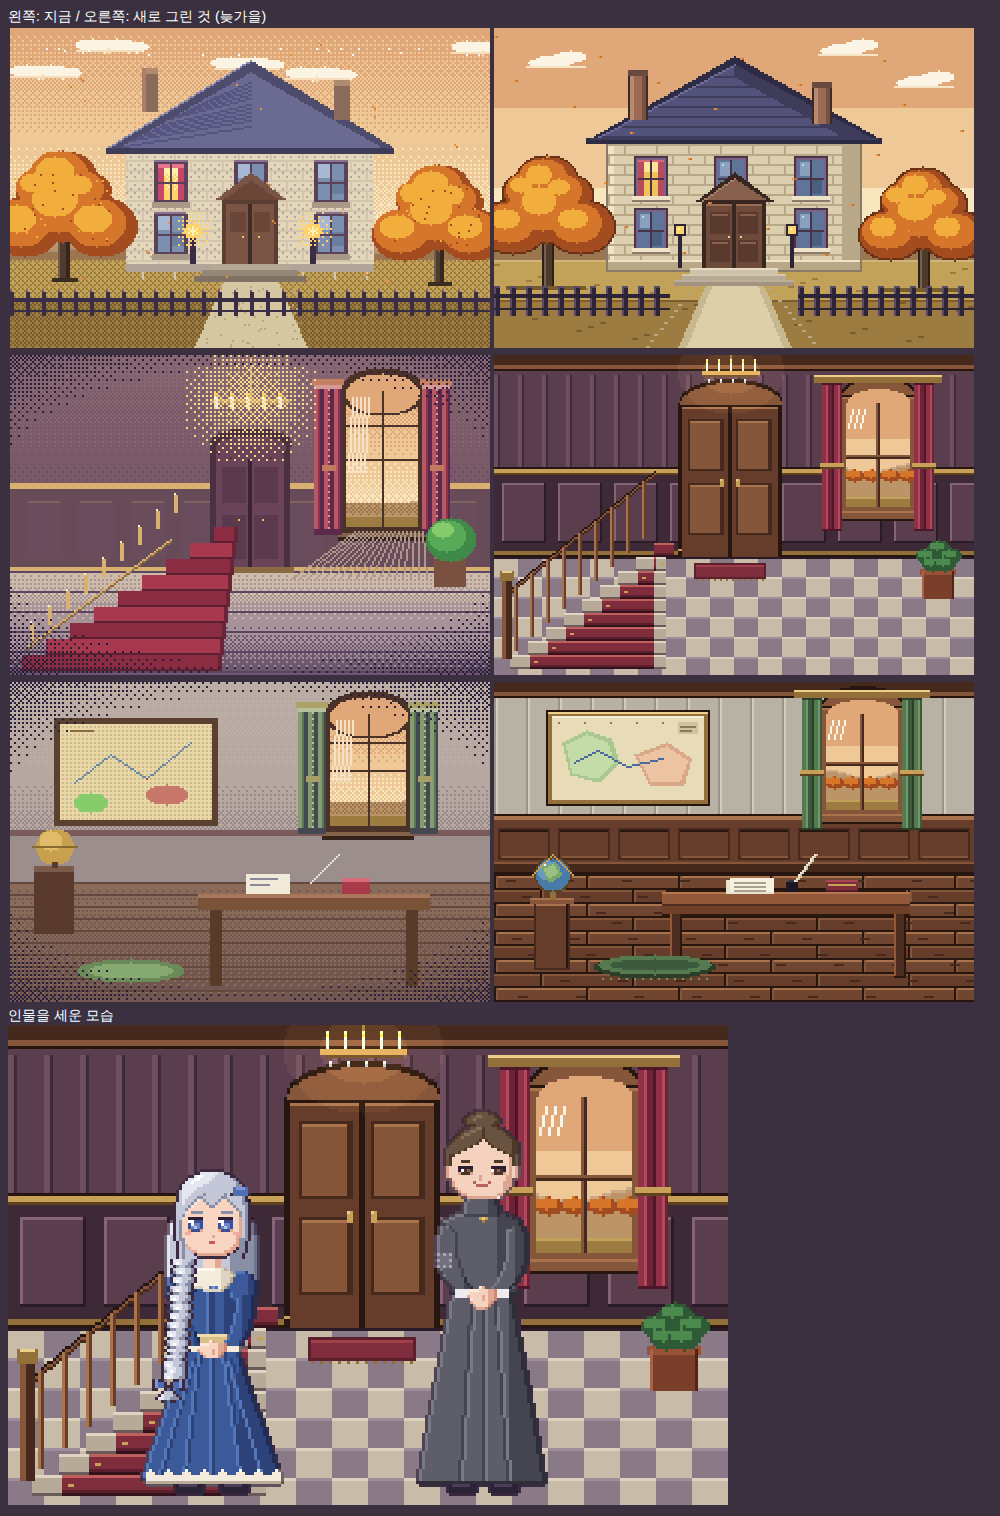
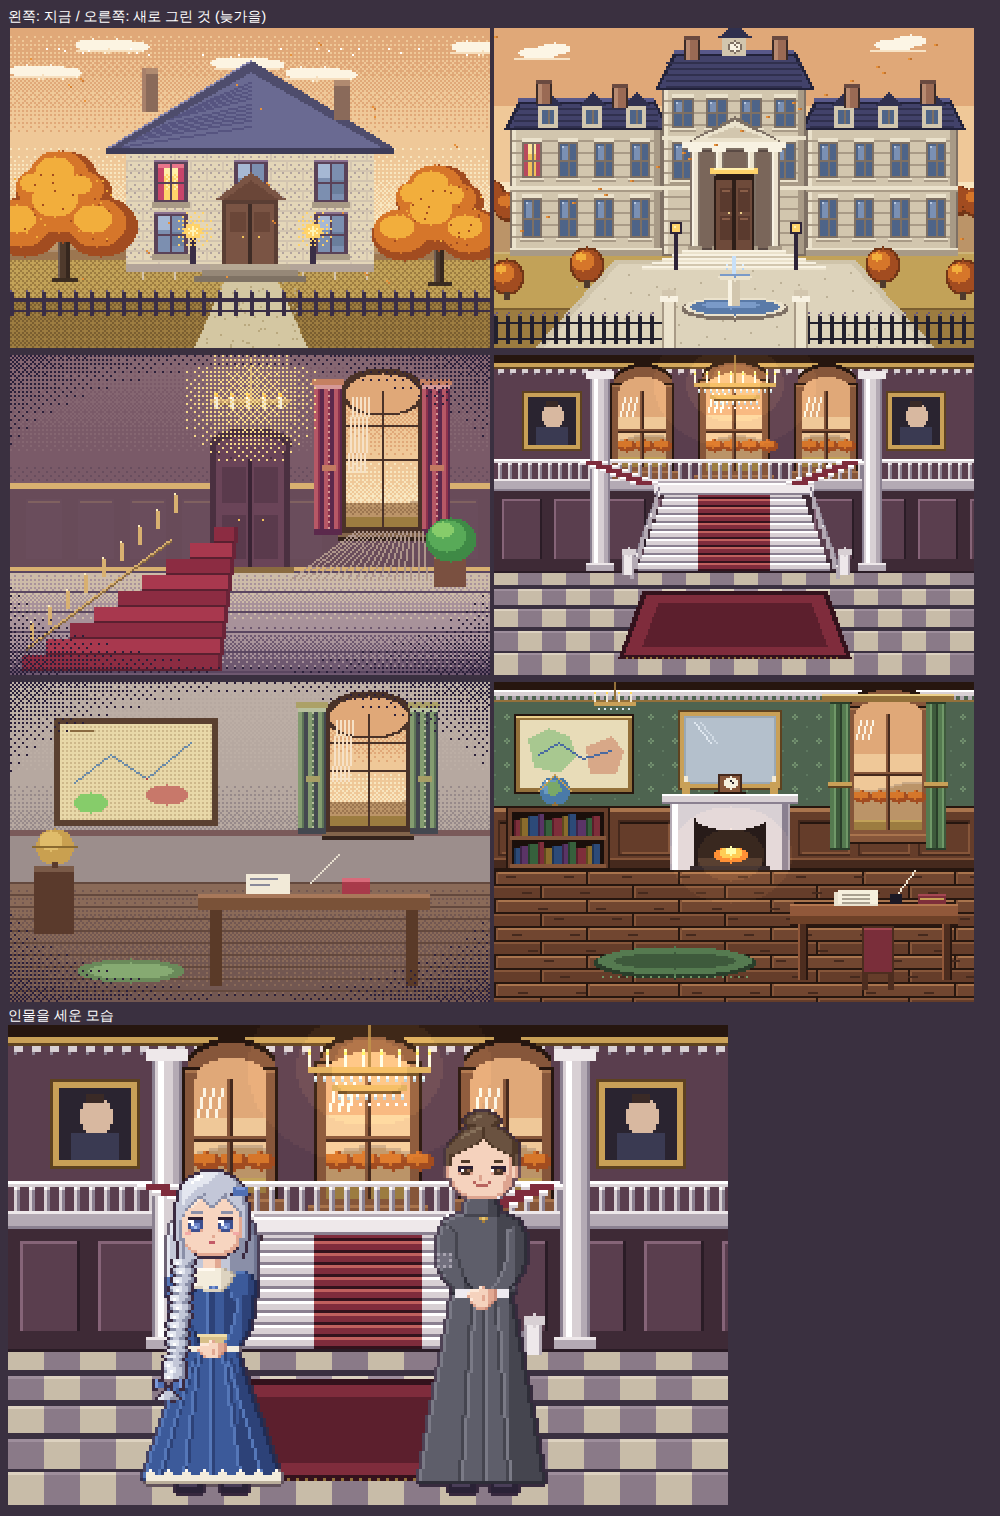
새 그림체 배경: 대저택판 외관·현관 홀·공부방 (wip)
Claude-Session: https://claude.ai/code/session_01NzQUDDCoPt1Z4eH1vzoWiG

diff --git a/wip/bg2.js b/wip/bg2.js
@@ -164,3 +164,169 @@ function exterior2(o,P){
   // 계절 입자 (낙엽·눈·꽃잎): 점무늬 대신 두 칸짜리 조각
   if(P.part){ for(let k=0;k<26;k++){ const X=(k*97)%236, Y=(k*61)%110+4; px(X,Y,P.part); px(X+1,Y,P.part===('#ffffff')?'#e8eef6':mix(P.part,'#7a3a14',.35)); } }
 }
+
+// ════ 대저택 버전 (사용자: "완전 대저택이어야 해") ════
+// 외관: 가운데 3층 본관 + 좌우 날개, 기둥 현관과 박공, 망사르 지붕과 지붕창, 대리석 계단, 분수, 철문
+function exterior3(o,P){
+  const R=(x,y,w,h,c)=>o.r(x,y,w,h,c), px=(x,y,c)=>o.p(x,y,c);
+  bands(o,0,0,240,96,[P.sky[0],P.sky[0],P.sky[1],P.sky[1],P.sky[2]]);
+  const cl=mix(P.sky[2],'#ffffff',.6), cs=mix(cl,P.sky[1],.4);
+  [[22,12],[200,8]].forEach(c=>{ o.ell(c[0],c[1],10,3,cl); o.ell(c[0]+8,c[1]-2,7,3,cl); R(c[0]-12,c[1]+3,28,1,cs); });
+  for(let X=0;X<240;X++){ const h=Math.round(84+Math.sin(X/23)*3); R(X,h,1,40,P.far[0]); px(X,h,mix(P.far[0],'#ffffff',.2)); }
+  // 뒤 나무숲 (건물 양옆으로 살짝)
+  for(let X=-4;X<250;X+=13){ const y=86+((X*7)%5); o.ell(X,y,9,8,mix(P.leaf[2],'#000000',.3)); o.ell(X-1,y-1,8,7,P.leaf[2]); o.ell(X-3,y-3,4,3,P.leaf[1]); }
+  // 땅·앞마당(자갈)
+  R(0,112,240,48,P.gr[0]); R(0,112,240,1,mix(P.gr[0],'#ffffff',.2)); R(0,140,240,20,P.gr[1]); R(0,140,240,1,P.gr[2]);
+  o.poly([[20,160],[220,160],[180,116],[60,116]],'#cfc4aa'); o.poly([[24,160],[216,160],[178,118],[62,118]],'#ddd3bb');
+  for(let k=0;k<60;k++){ const X=40+(k*37)%160, Y=120+(k*13)%40; px(X,Y,'#bcb096'); }
+  const ST=['#7e7064','#a89a86','#d2c6ae','#ebe2cc','#f8f2e2'];       // 크림색 돌
+  const RF=['#22223a','#30304e','#42426a','#58588a'];                // 슬레이트
+  const win=(x,y,w,h,lit)=>{ R(x-1,y-1,w+2,h+2,ST[0]); R(x,y,w,h,lit?'#f2c25a':'#4e6488');
+    if(lit){ R(x,y,w,Math.floor(h/3),'#fde49a'); R(x,y,2,h,'#b84a5e'); R(x+w-2,y,2,h,'#b84a5e'); } else { R(x+1,y+1,Math.floor(w/2)-1,Math.floor(h/2),'#7a90b4'); px(x+1,y+1,'#b8c8e0'); }
+    R(x+Math.floor(w/2),y,1,h,ST[0]); R(x,y+Math.floor(h/2),w,1,ST[0]); R(x-2,y+h+1,w+4,2,ST[3]); R(x-2,y+h+2,w+4,1,ST[1]); R(x-1,y-3,w+2,2,ST[3]); };
+  // 날개 (왼쪽·오른쪽): 2층 + 지붕창
+  [[8,76],[156,76]].forEach((wg,wi)=>{ const x=wg[0], w=wg[1];
+    R(x,50,w,64,ST[0]); R(x+1,51,w-2,62,ST[2]); R(x+1,51,2,62,ST[3]); R(x+w-4,51,3,62,ST[1]);
+    for(let Y=56;Y<112;Y+=6) R(x+1,Y,w-2,1,ST[1]);
+    R(x,79,w,2,ST[3]); R(x,81,w,1,ST[1]);          // 층 띠
+    R(x,110,w,4,ST[1]); R(x,110,w,1,ST[3]);
+    // 망사르 지붕
+    o.poly([[x-3,51],[x+w+3,51],[x+w-4,36],[x+4,36]],RF[0]); o.poly([[x-1,50],[x+w+1,50],[x+w-5,38],[x+5,38]],RF[2]);
+    for(let Y=40;Y<50;Y+=3) R(x+2,Y,w-4,1,RF[1]); R(x+4,35,w-8,2,RF[3]);
+    for(let k=0;k<3;k++){ const dx=x+14+k*22; R(dx,38,10,12,ST[2]); o.poly([[dx-2,39],[dx+12,39],[dx+5,32]],RF[1]); R(dx+2,41,6,7,'#4e6488'); R(dx+5,41,1,7,ST[0]); }
+    // 창: 2층(이층) y58, 1층 y86
+    for(let k=0;k<4;k++){ const wx=x+7+k*18; win(wx,58,8,16, wi===0&&k===0); win(wx,86,8,18,false); }
+  });
+  // 본관 (가운데, 3층)
+  const cx=84, cw=72;
+  R(cx,30,cw,84,ST[0]); R(cx+1,31,cw-2,82,ST[2]); R(cx+1,31,2,82,ST[3]); R(cx+cw-4,31,3,82,ST[1]);
+  for(let Y=36;Y<112;Y+=6) R(cx+1,Y,cw-2,1,ST[1]);
+  R(cx,54,cw,2,ST[3]); R(cx,79,cw,2,ST[3]);
+  o.poly([[cx-4,31],[cx+cw+4,31],[cx+cw-6,12],[cx+6,12]],RF[0]); o.poly([[cx-2,30],[cx+cw+2,30],[cx+cw-7,14],[cx+7,14]],RF[2]);
+  for(let Y=17;Y<30;Y+=3) R(cx+2,Y,cw-4,1,RF[1]); R(cx+6,11,cw-12,2,RF[3]);
+  // 지붕 위 시계 박공
+  R(114,4,12,10,ST[2]); o.poly([[111,5],[129,5],[120,-2]],RF[1]); o.ell(120,9,3,3,ST[0]); o.ell(120,9,2,2,'#f8f2e2'); px(120,8,ST[0]); px(121,9,ST[0]);
+  // 굴뚝
+  [[22,26],[60,28],[176,28],[214,26],[96,4],[140,4]].forEach(c=>{ R(c[0]-1,c[1],8,12,'#3a2a26'); R(c[0],c[1]+1,6,11,'#9a6a54'); R(c[0],c[1]+1,2,11,'#b88a70'); R(c[0]-1,c[1],8,2,'#6a4a40'); });
+  // 본관 창: 3층 y36, 2층 y58
+  for(let k=0;k<4;k++){ const wx=cx+6+k*17; if(k===1||k===2){ win(wx,36,9,13,false); } else { win(wx,36,9,13,false); win(wx,58,9,17,false); } }
+  // 기둥 현관 + 박공
+  const PX0=98, PW=44;
+  o.poly([[PX0-4,58],[PX0+PW+4,58],[120,44]],ST[0]); o.poly([[PX0-1,57],[PX0+PW+1,57],[120,46]],ST[3]); o.poly([[PX0+6,55],[PX0+PW-6,55],[120,49]],ST[2]);
+  R(PX0-4,57,PW+8,3,ST[4]); R(PX0-4,60,PW+8,1,ST[0]);
+  R(PX0,61,PW,50,'#5a4a44'); R(PX0+1,62,PW-2,48,'#7a665a');
+  [PX0,PX0+12,PX0+28,PX0+40].forEach(x=>{ R(x,61,5,50,ST[0]); R(x+1,61,3,50,ST[3]); R(x+1,61,1,50,ST[4]); R(x-1,60,7,2,ST[4]); R(x-1,109,7,2,ST[1]); });
+  // 정문
+  R(110,74,20,37,'#2e1e18'); R(111,76,18,35,'#6e4a3a'); for(let k=0;k<10;k++){ const d=Math.round(Math.sqrt(1-(k/10)**2)*5); R(120-k,75-d,1,d,'#2e1e18'); R(120+k,75-d,1,d,'#2e1e18'); }
+  R(119,76,2,35,'#2e1e18'); [[113,80],[122,80],[113,94],[122,94]].forEach(p=>{ R(p[0],p[1],6,12,'#5a3a2e'); R(p[0]+1,p[1]+1,4,1,'#8a5e48'); }); px(117,92,GD2[3]); px(123,92,GD2[3]);
+  R(108,70,24,3,'#ffd36a'); R(110,70,20,1,'#fff0b0');   // 문 위 반원창 빛
+  // 대리석 계단 (넓게)
+  for(let k=0;k<5;k++){ const w=52+k*10, Y=111+k*2; R(120-w/2,Y,w,2,k%2?ST[2]:ST[3]); R(120-w/2,Y,w,1,ST[4]); }
+  // 등 기둥
+  [[90,121],[150,121]].forEach(p=>{ R(p[0],p[1]-18,2,18,'#2e2438'); R(p[0]-2,p[1]-24,6,6,'#2e2438'); R(p[0]-1,p[1]-23,4,4,'#ffd36a'); px(p[0],p[1]-22,'#fff4b8'); });
+  // 분수 (앞마당 가운데)
+  o.ell(120,140,26,6,ST[0]); o.ell(120,139,25,5,ST[3]); o.ell(120,139,22,4,'#5a7aa8'); o.ell(118,138,14,2,'#7a9ac8'); R(117,124,6,15,ST[2]); R(117,124,2,15,ST[4]); o.ell(120,124,8,2,ST[3]); o.ell(120,123,7,1,'#7a9ac8');
+  [[116,118],[124,118],[120,116]].forEach(d=>{ px(d[0],d[1],'#d8ecff'); px(d[0],d[1]+2,'#b8d4f0'); }); R(119,114,2,9,'#c8e0f8');
+  // 철문·울타리 (맨 앞)
+  for(let X=0;X<240;X+=6){ if(X>88&&X<150) continue; R(X,144,2,14,'#22202e'); px(X,143,'#6a5a7a'); px(X+1,142,'#6a5a7a'); }
+  R(0,147,90,1,'#22202e'); R(150,147,90,1,'#22202e'); R(0,155,90,1,'#22202e'); R(150,155,90,1,'#22202e');
+  [[84,136],[150,136]].forEach(p=>{ R(p[0],p[1],7,24,ST[1]); R(p[0]+1,p[1],5,24,ST[3]); R(p[0]-1,p[1]-2,9,3,ST[4]); o.ell(p[0]+3,p[1]-4,3,2,ST[2]); });
+  // 정원수 (양 끝, 계절)
+  const shrub=(x,y)=>{ o.ell(x,y,8,9,mix(P.leaf[2],'#000000',.3)); o.ell(x,y,7,8,P.leaf[2]); o.ell(x-2,y-2,5,5,P.leaf[1]); o.ell(x-3,y-4,2,2,P.leaf[0]); R(x-1,y+8,3,4,P.trunk); };
+  [[6,124],[234,124],[46,118],[194,118]].forEach(p=>shrub(p[0],p[1]));
+  if(P.part){ for(let k=0;k<22;k++){ const X=(k*97)%236, Y=(k*61)%104+4; px(X,Y,P.part); px(X+1,Y,P.part==='#ffffff'?'#e8eef6':mix(P.part,'#7a3a14',.35)); } }
+}
+
+// 현관 홀: 2층 높이, 가운데서 갈라지는 대리석 계단, 위층 회랑과 높은 아치 창, 큰 크리스털 샹들리에, 기둥, 초상화
+function hall3(o,P){
+  const R=(x,y,w,h,c)=>o.r(x,y,w,h,c), px=(x,y,c)=>o.p(x,y,c);
+  const WL=['#3e2a36','#5a3e4e','#6e4e60','#866478'];
+  const MB=['#8a8090','#b4aab4','#d8d0d4','#eee8ea','#ffffff'];  // 대리석
+  const RG=['#33121c','#5c1f2d','#7f2c3c','#a1404b','#c0605e'];
+  R(0,0,240,108,WL[1]);
+  // 천장 몰딩
+  R(0,0,240,4,WD2[0]); R(0,4,240,2,GD2[2]); R(0,6,240,1,GD2[0]); for(let X=2;X<240;X+=6){ R(X,7,3,2,MB[2]); px(X,9,MB[0]); }
+  // 뒤 벽 위층: 높은 아치 창 3개
+  [[60,12],[106,10],[152,12]].forEach((w,i)=>{ const ww=i===1?28:24, wh=i===1?42:38; frameWin(o,w[0]+(i===1?0:2),w[1]+6,ww,wh,P,{arch:true}); });
+  // 위층 회랑 (난간)
+  R(0,62,240,6,MB[1]); R(0,62,240,1,MB[3]); R(0,67,240,1,MB[0]);
+  R(0,52,240,2,MB[2]); R(0,52,240,1,MB[4]); for(let X=2;X<240;X+=5){ R(X,54,2,8,MB[2]); px(X,54,MB[4]); R(X+1,55,1,7,MB[0]); }
+  // 아래층 뒤 벽 (판넬) + 가운데 아치 통로
+  R(0,68,240,40,WL[0]);
+  for(let X=4;X<240;X+=26){ if(X>86&&X<150) continue; R(X,72,20,30,WL[1]); R(X,72,20,1,WL[3]); R(X,72,1,30,WL[3]); R(X+19,72,1,30,'#2a1c26'); }
+  // 초상화 (위층 양쪽 벽)
+  [[14,18],[196,18]].forEach(p=>{ R(p[0],p[1],30,30,GD2[0]); R(p[0]+1,p[1]+1,28,28,GD2[2]); R(p[0]+3,p[1]+3,24,24,'#2a2430'); o.ell(p[0]+15,p[1]+12,5,6,'#d8b8a0'); R(p[0]+7,p[1]+18,16,9,'#3a3a52'); R(p[0]+12,p[1]+5,6,3,'#3a2a26'); });
+  // 기둥 (양 옆)
+  [[48,8],[184,8]].forEach(c=>{ const x=c[0]; R(x,8,10,100,MB[0]); R(x+1,8,8,100,MB[2]); R(x+2,8,2,100,MB[4]); R(x+7,8,2,100,MB[1]); R(x-2,8,14,4,MB[3]); R(x-2,104,14,4,MB[1]); R(x-2,104,14,1,MB[3]); });
+  // 바닥: 대리석 격자 (원근감 있게 위는 좁게)
+  for(let j=0;j<6;j++){ const Y=108+j*9+Math.floor(j*j/3), h=7+j; for(let X=-(j%2)*12;X<240;X+=24){ R(X,Y,12,h,'#c8bca8'); R(X+12,Y,12,h,'#8a7a88'); R(X,Y,12,1,'#ddd2c0'); R(X+12,Y,12,1,'#9e8e9c'); } }
+  R(0,108,240,1,'#2a1c26');
+  // 가운데 계단: 바닥(108)에서 계단참(70)까지 넓게, 붉은 양탄자
+  for(let k=0;k<10;k++){ const Y=104-k*4, w=96-k*3; R(120-w/2,Y,w,4,MB[2]); R(120-w/2,Y,w,1,MB[4]); R(120-w/2,Y+3,w,1,MB[0]); R(120-18,Y,36,4,RG[2]); R(120-18,Y,36,1,RG[4]); R(120-18,Y+3,36,1,RG[0]); }
+  R(80,64,80,6,MB[3]); R(80,64,80,1,MB[4]); R(80,69,80,1,MB[0]);   // 계단참
+  // 계단참에서 좌우 위층으로 갈라지는 계단
+  for(let k=0;k<6;k++){ const Y=63-k*2; R(80-k*5-12,Y,14,2,MB[2]); R(80-k*5-12,Y,14,1,MB[4]); R(146+k*5,Y,14,2,MB[2]); R(146+k*5,Y,14,1,MB[4]); R(80-k*5-9,Y,8,2,RG[2]); R(149+k*5,Y,8,2,RG[2]); }
+  // 계단 난간 (가운데 계단 양옆)
+  o.line(68,106,82,66,MB[0]); o.line(69,106,83,66,MB[3]); o.line(172,106,158,66,MB[0]); o.line(171,106,157,66,MB[3]);
+  for(let k=0;k<8;k++){ const t=k/8; const xl=Math.round(68+14*t), xr=Math.round(172-14*t), y=Math.round(106-40*t); R(xl,y,2,6,MB[1]); R(xr-1,y,2,6,MB[1]); }
+  [[64,100],[172,100]].forEach(p=>{ R(p[0],p[1],6,10,MB[1]); R(p[0]+1,p[1],4,10,MB[3]); o.ell(p[0]+3,p[1]-2,3,2,MB[2]); });
+  // 큰 크리스털 샹들리에
+  o.line(120,0,120,14,GD2[1]); R(100,14,41,2,GD2[2]); R(104,16,33,1,GD2[0]); R(108,20,25,2,GD2[2]); R(110,22,21,1,GD2[0]);
+  [100,106,112,118,124,130,136,140].forEach(x=>{ R(x,10,1,4,'#f2ead8'); px(x,9,'#ffd75a'); px(x,8,'#fff0a8'); });
+  for(let x=102;x<140;x+=3){ px(x,17,'#d8e8f0'); px(x,18,'#a8c0d0'); } for(let x=110;x<132;x+=3){ px(x,23,'#d8e8f0'); px(x,24,'#a8c0d0'); px(x+1,26,'#e8f4ff'); }
+  warmGlow(o,120,14,[[40,.04],[24,.06],[12,.08]]);
+  // 앞쪽 큰 양탄자
+  o.poly([[62,152],[178,152],[166,118],[74,118]],RG[0]); o.poly([[65,150],[175,150],[164,120],[76,120]],RG[2]); o.poly([[74,146],[166,146],[158,124],[82,124]],RG[1]);
+  for(let X=66;X<174;X+=3) px(X,151,GD2[1]);
+}
+
+// 공부방(대저택판): 높은 천장 몰딩, 다마스크 벽지, 대리석 벽난로와 거울·탁상시계, 높은 창, 책장, 지도, 지구본, 책상과 의자, 작은 샹들리에
+function school3(o,P){
+  const R=(x,y,w,h,c)=>o.r(x,y,w,h,c), px=(x,y,c)=>o.p(x,y,c);
+  const WP=['#3a4a3a','#4e6450','#5e7860','#72906e'];      // 짙은 세이지 벽지
+  const MB=['#8a8090','#b4aab4','#d8d0d4','#eee8ea','#ffffff'];
+  const GR=['#2a3e2a','#3e5a3c','#557a50','#709868'];
+  R(0,0,240,94,WP[1]);
+  for(let X=0;X<240;X+=12) for(let Y=16;Y<60;Y+=12){ px(X+6,Y,WP[3]); px(X+5,Y+1,WP[3]); px(X+7,Y+1,WP[3]); px(X+6,Y+2,WP[3]); px(X+6,Y+1,WP[2]); px(X,Y+6,WP[2]); }
+  R(0,0,240,4,WD2[0]); R(0,4,240,3,MB[2]); R(0,4,240,1,MB[4]); for(let X=1;X<240;X+=4){ R(X,7,2,2,MB[1]); } R(0,9,240,1,GD2[1]);
+  R(0,62,240,1,WD2[0]); R(0,63,240,2,WD2[4]); R(0,65,240,1,WD2[2]); R(0,66,240,24,WD2[2]);
+  for(let X=2;X<240;X+=30){ R(X,69,26,18,WD2[1]); R(X+1,70,24,16,WD2[2]); R(X+1,70,24,1,WD2[0]); R(X+2,85,23,1,WD2[3]); R(X+25,71,1,15,WD2[3]); }
+  R(0,88,240,1,WD2[3]); R(0,89,240,4,WD2[1]); R(0,93,240,1,WD2[0]);
+  plankFloor(o,94,WD2);
+  // 높은 창 + 녹색 커튼 (오른쪽)
+  frameWin(o,180,16,34,58,P,{arch:true});
+  curtainPair(o,168,10,10,74,GR,true); curtainPair(o,216,10,10,74,GR,true); R(164,6,66,4,GD2[1]); R(164,6,66,1,GD2[3]);
+  // 지도 액자 (왼쪽 위)
+  R(10,16,60,40,WD2[0]); R(11,17,58,38,GD2[1]); R(11,17,58,1,GD2[3]); R(13,19,54,34,'#e8dcb8');
+  o.poly([[17,28],[27,23],[37,27],[40,37],[32,45],[20,42]],'#a8c890'); o.poly([[46,32],[58,27],[64,34],[60,46],[48,46]],'#d8a888');
+  o.line(22,36,32,30,'#4a6aa0'); o.line(32,30,44,38,'#4a6aa0'); o.line(44,38,58,34,'#4a6aa0');
+  // 대리석 벽난로 + 거울 + 탁상시계 (가운데)
+  R(92,14,52,40,GD2[0]); R(93,15,50,38,GD2[2]); R(95,17,46,34,'#9aa8b4'); R(96,18,44,32,'#b4c0cc'); o.line(100,20,108,30,'#e0e8f0'); o.line(103,20,111,30,'#d0dae4');
+  R(84,56,68,5,MB[2]); R(84,56,68,1,MB[4]); R(84,60,68,1,MB[0]);
+  R(88,61,60,33,MB[1]); R(89,61,58,33,MB[2]); R(89,61,3,33,MB[4]); R(144,61,3,33,MB[0]);
+  R(100,68,36,26,'#1a1214'); for(let k=0;k<18;k++){ const d=Math.round(Math.sqrt(1-(k/18)**2)*6); R(118-k,68,1,d,MB[2]); R(118+k,68,1,d,MB[2]); }
+  R(102,88,32,4,'#3a2a26'); o.ell(118,86,8,4,'#e07a2a'); o.ell(118,85,5,3,'#f6b84a'); o.ell(118,84,2,2,'#ffe8a0');
+  R(98,92,40,2,'#2a2228');
+  R(112,46,12,10,WD2[1]); R(113,47,10,8,WD2[3]); o.ell(118,50,3,3,'#f6f0de'); px(118,49,'#2a2228'); px(119,50,'#2a2228'); R(110,55,16,1,WD2[0]);   // 탁상시계
+  R(94,50,4,6,GD2[2]); R(95,47,2,3,'#f2ead8'); R(138,50,4,6,GD2[2]); R(139,47,2,3,'#f2ead8');   // 촛대
+  // 책장 (왼쪽 아래)
+  R(6,62,52,32,WD2[0]); R(7,63,50,30,WD2[2]);
+  const BK=[['#5a1e2a','#7e2e3a'],['#1e3354','#2c4a78'],['#24402a','#36603c'],['#5e4a1e','#8a6c2c'],['#3e2448','#5a3466']];
+  for(let sh=0;sh<2;sh++){ const top=65+sh*14; R(9,top,46,12,'#1a0f0b'); for(let X=10,k=0;X<53;k++){ const w=3+((k*7)%3), h=8+((k*5)%4), c=BK[(k*3+sh)%5]; R(X,top+12-h,w,h,c[1]); R(X,top+12-h,1,h,c[0]); X+=w; } R(8,top+12,48,2,WD2[3]); }
+  // 지구본
+  o.ell(30,54,7,7,'#4a7aa8'); o.ell(28,52,4,4,'#6a9ac0'); o.poly([[26,50],[31,49],[33,54],[28,57]],'#7aa868'); px(26,49,'#ffffff'); o.line(22,54,30,46,GD2[2]); o.line(30,46,38,54,GD2[2]); R(29,61,3,1,GD2[1]); R(30,60,1,2,GD2[1]);
+  // 책상 + 의자 (앞쪽 가운데 오른쪽)
+  const DT=['#2a1710','#4d2d1f','#6e4128','#91583a','#b4774f'];
+  R(150,110,80,1,DT[0]); R(148,111,84,6,DT[3]); R(148,111,84,1,DT[4]); R(148,117,84,4,DT[2]); R(148,121,84,1,DT[0]);
+  [[152,121],[224,121]].forEach(l=>{ R(l[0],l[1],5,28,DT[1]); R(l[0],l[1],1,28,DT[3]); R(l[0]+4,l[1],1,28,DT[0]); });
+  R(170,105,22,7,'#e9e2cf'); R(172,104,20,7,'#f6f0de'); for(let k=0;k<3;k++) R(174,106+k*2,14,1,'#a8a090');
+  R(198,106,6,5,'#1b1824'); o.line(202,105,210,94,'#efe7d4');
+  R(212,106,14,5,'#7e2e3a'); R(212,106,14,1,'#a54852'); R(213,108,12,1,GD2[2]);
+  // 의자 등받이 (책상 앞)
+  R(184,122,16,24,DT[1]); R(185,123,14,22,'#7a2e3a'); R(185,123,14,1,'#a54852'); R(184,146,3,8,DT[1]); R(197,146,3,8,DT[1]);
+  // 작은 샹들리에
+  o.line(60,0,60,10,GD2[1]); R(50,10,21,2,GD2[2]); [50,56,62,68].forEach(x=>{ R(x,6,1,4,'#f2ead8'); px(x,5,'#ffd75a'); }); for(let x=52;x<70;x+=3) px(x,13,'#d8e8f0');
+  // 녹색 깔개
+  o.ell(90,140,40,8,GR[0]); o.ell(90,139,38,7,GR[2]); o.ell(90,139,30,4,GR[1]); for(let X=54;X<128;X+=4) px(X,147,GR[3]);
+  warmGlow(o,118,86,[[30,.05],[16,.07]]);
+}

diff --git a/wip/bg_view.js b/wip/bg_view.js
@@ -6,7 +6,7 @@ const fs=require('fs'); const SP=__dirname;
   await p.setViewport({width:1000,height:700});
   await p.goto('file://'+require('path').resolve(__dirname,'../dist/game.html'));
   const places=(process.argv[3]||'exterior,hall,schoolroom').split(',');
-  const NEW={exterior:'exterior2',hall:'hall2',schoolroom:'school2',study:'study2',bedroom:'bedroom2',dining:'dining2',kitchen:'kitchen2',orchard:'orchard2',carriage:'carriage2',corridor:'corridor2',office:'office2'};
+  const NEW={exterior:'exterior3',hall:'hall3',schoolroom:'school3',study:'study2',bedroom:'bedroom2',dining:'dining2',kitchen:'kitchen2',orchard:'orchard2',carriage:'carriage2',corridor:'corridor2',office:'office2'};
   const season=process.argv[4]||'늦가을';
   const old=await p.evaluate((pl,s)=>pl.map(k=>{ try{ return bgCanvas(k,s).toDataURL(); }catch(e){ return ''; } }),places,season);
   for(const f of ['cel.js','study2.js','ade2.js','more2.js','more3.js','bg2.js']) await p.addScriptTag({content:fs.readFileSync(SP+'/'+f,'utf8')});

diff --git a/wip/README.md b/wip/README.md
@@ -7,7 +7,7 @@
 - `ade2.js` — 새 아델라인 `adeSprite(expr)` (얼굴은 점 지도 `ADE_HEAD`, 땋은 머리 점 지도), `outlinePass()`
 - `more2.js` — 새 탠지(굵은 컬 단발) `tangieSprite`, 남자 얼굴 지도 + 몸 `maleSprite('edric'|'marot')`
 - `more3.js` — 홀트·마르타(어른 여자 얼굴 지도 `femSprite`), 소년들(아이 얼굴 지도 `boySprite(id,expr)`: adrian·kylen·julian·lionel·sebastian·hadel), 소녀들(`girlSprite(id,expr)`: rosalie·serena), 어른 남자 추가(`adultMale(id,expr)`: gregor·count). 캡처 `node wip/batch1_view.js 파일.png`
-- `bg2.js` — 새 배경 `exterior2`·`hall2`·`school2` (공통 재료 `frameWin`·`curtainPair`·`plankFloor`). 캡처 `node wip/bg_view.js 파일.png exterior,hall,schoolroom 늦가을`
+- `bg2.js` — 새 배경. 대저택판 `exterior3`·`hall3`·`school3`(사용자: "완전 대저택") — 처음 그린 `exterior2`·`hall2`·`school2`는 작아서 폐기 예정 (공통 재료 `frameWin`·`curtainPair`·`plankFloor`). 캡처 `node wip/bg_view.js 파일.png exterior,hall,schoolroom 늦가을`
 - `ade_view.js`, `more_view.js`, `cmp.js` — 비교 캡처 (`node wip/more_view.js /tmp/more.png`, 먼저 `npm run build`)
 - 미리보기 결과: `preview/study-redraw-compare.png`, `preview/adeline-redraw.png`, `preview/tangie-edric-marot-redraw.png`, `preview/holt-marta-adrian-redraw.png`, `preview/kylen-julian-lionel-redraw.png` (`node wip/batch2_view.js`), `preview/sebastian-hadel-rosalie-redraw.png` (`node wip/batch3_view.js`), `preview/serena-gregor-count-redraw.png` (`node wip/batch4_view.js`)
 
@@ -23,3 +23,4 @@
 - 하델은 **검은 머리** (사용자 지정, canon.md에 기록). 카일런의 검푸른 머리와 구분되게 푸른 기 없는 검정.
 - 세레나: 금발 긴 머리·하얀 나비 리본·흰 드레스와 연보라 띠, 반쯤 내리뜬 눈. 그레고르: 짙은 갈색 수염·털 망토·금 걸쇠, 가장 큰 키. 발트하임 백작: 회색 머리·지친 눈 밑·은 손잡이 지팡이.
 - 세레나는 단순한 버전(girlSprite, 나비 리본)을 사용자가 선택. 정교하게 다시 그린 버전은 되돌림.
+- 배경은 **대저택** 규모: 외관은 3층 본관+좌우 날개, 기둥 현관·박공·망사르 지붕·시계 박공, 분수(정사 805행 '정원의 분수, 대리석 계단'), 서재 불은 이층 가장 왼쪽 창. 현관 홀은 2층 높이, 가운데 대리석 계단과 위층 회랑, 큰 샹들리에. 공부방은 정사상 '서재 옆 작은 공부방'이라 크기는 작게 두되 꾸밈(몰딩·대리석 벽난로·거울·탁상시계·책장·샹들리에)은 고급스럽게.
